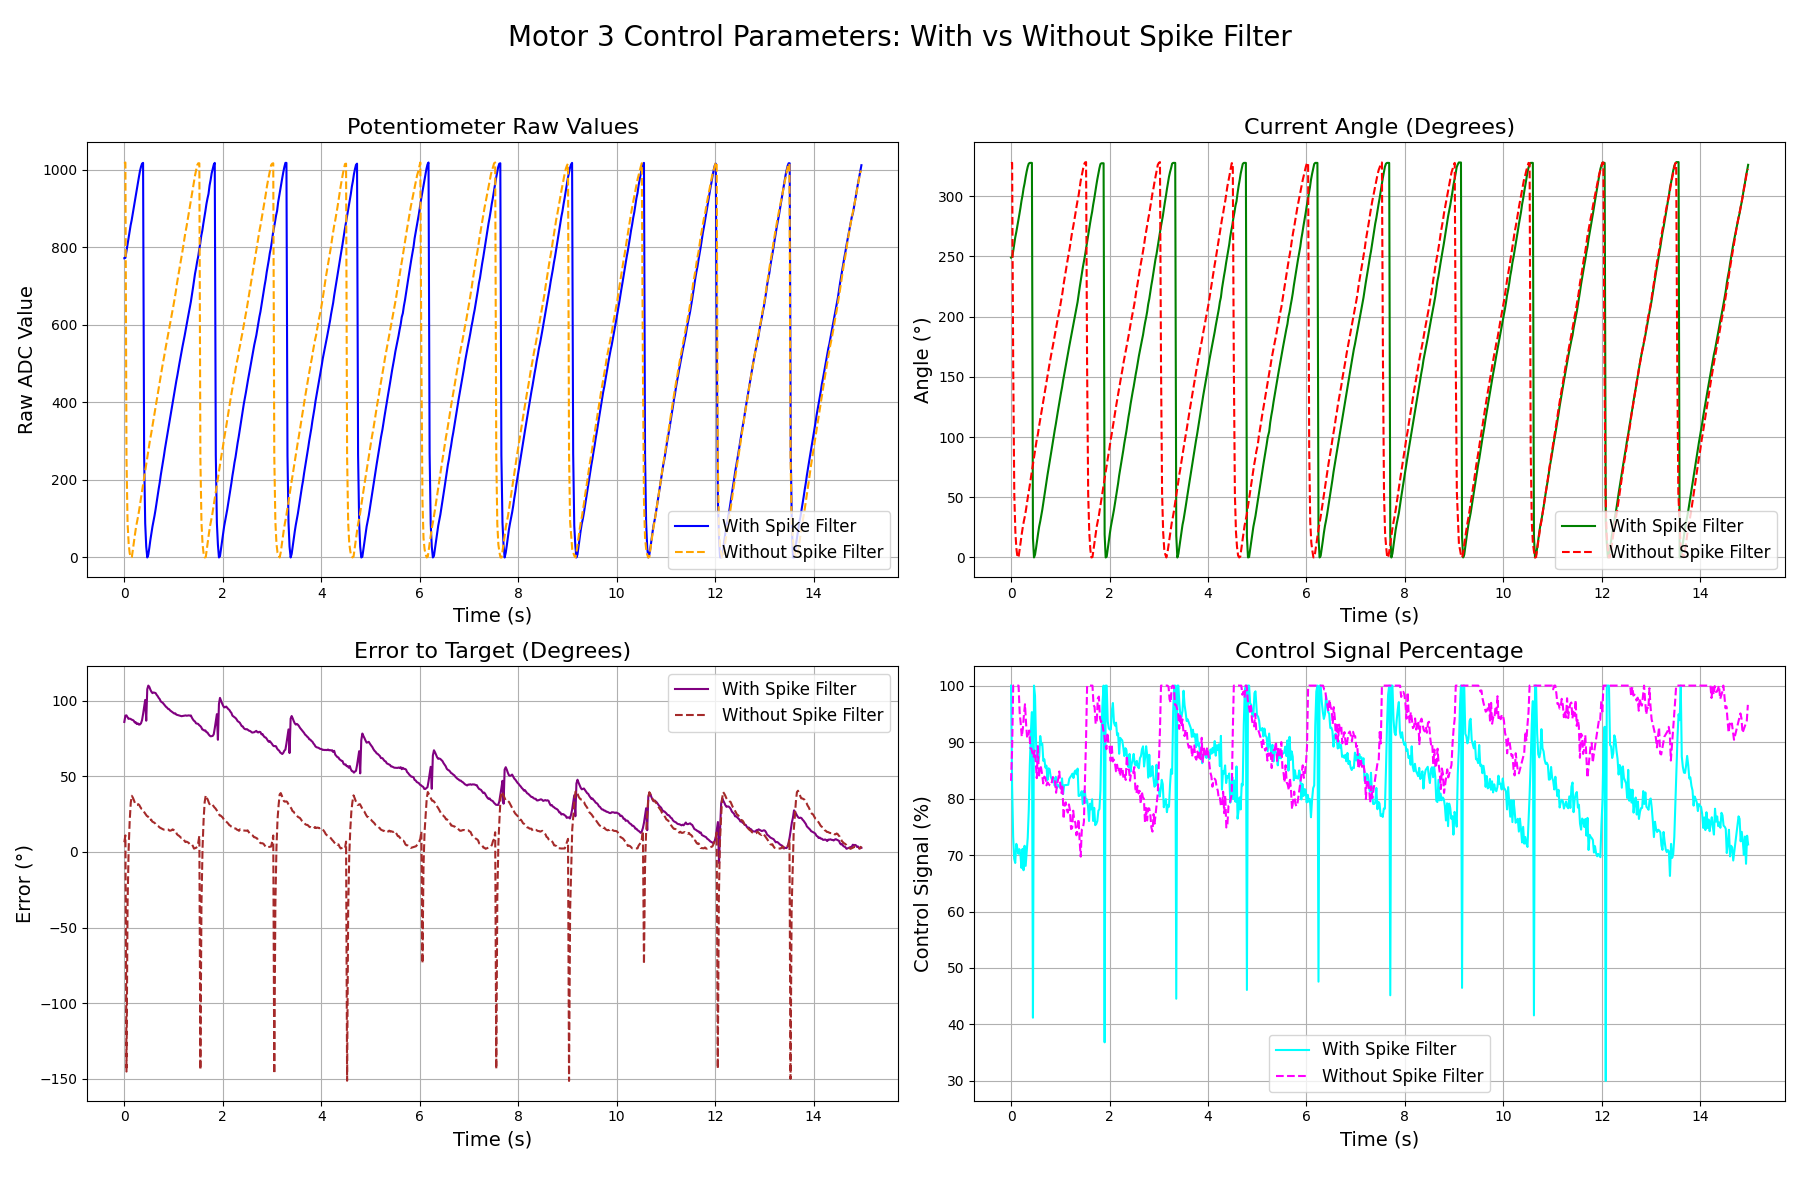
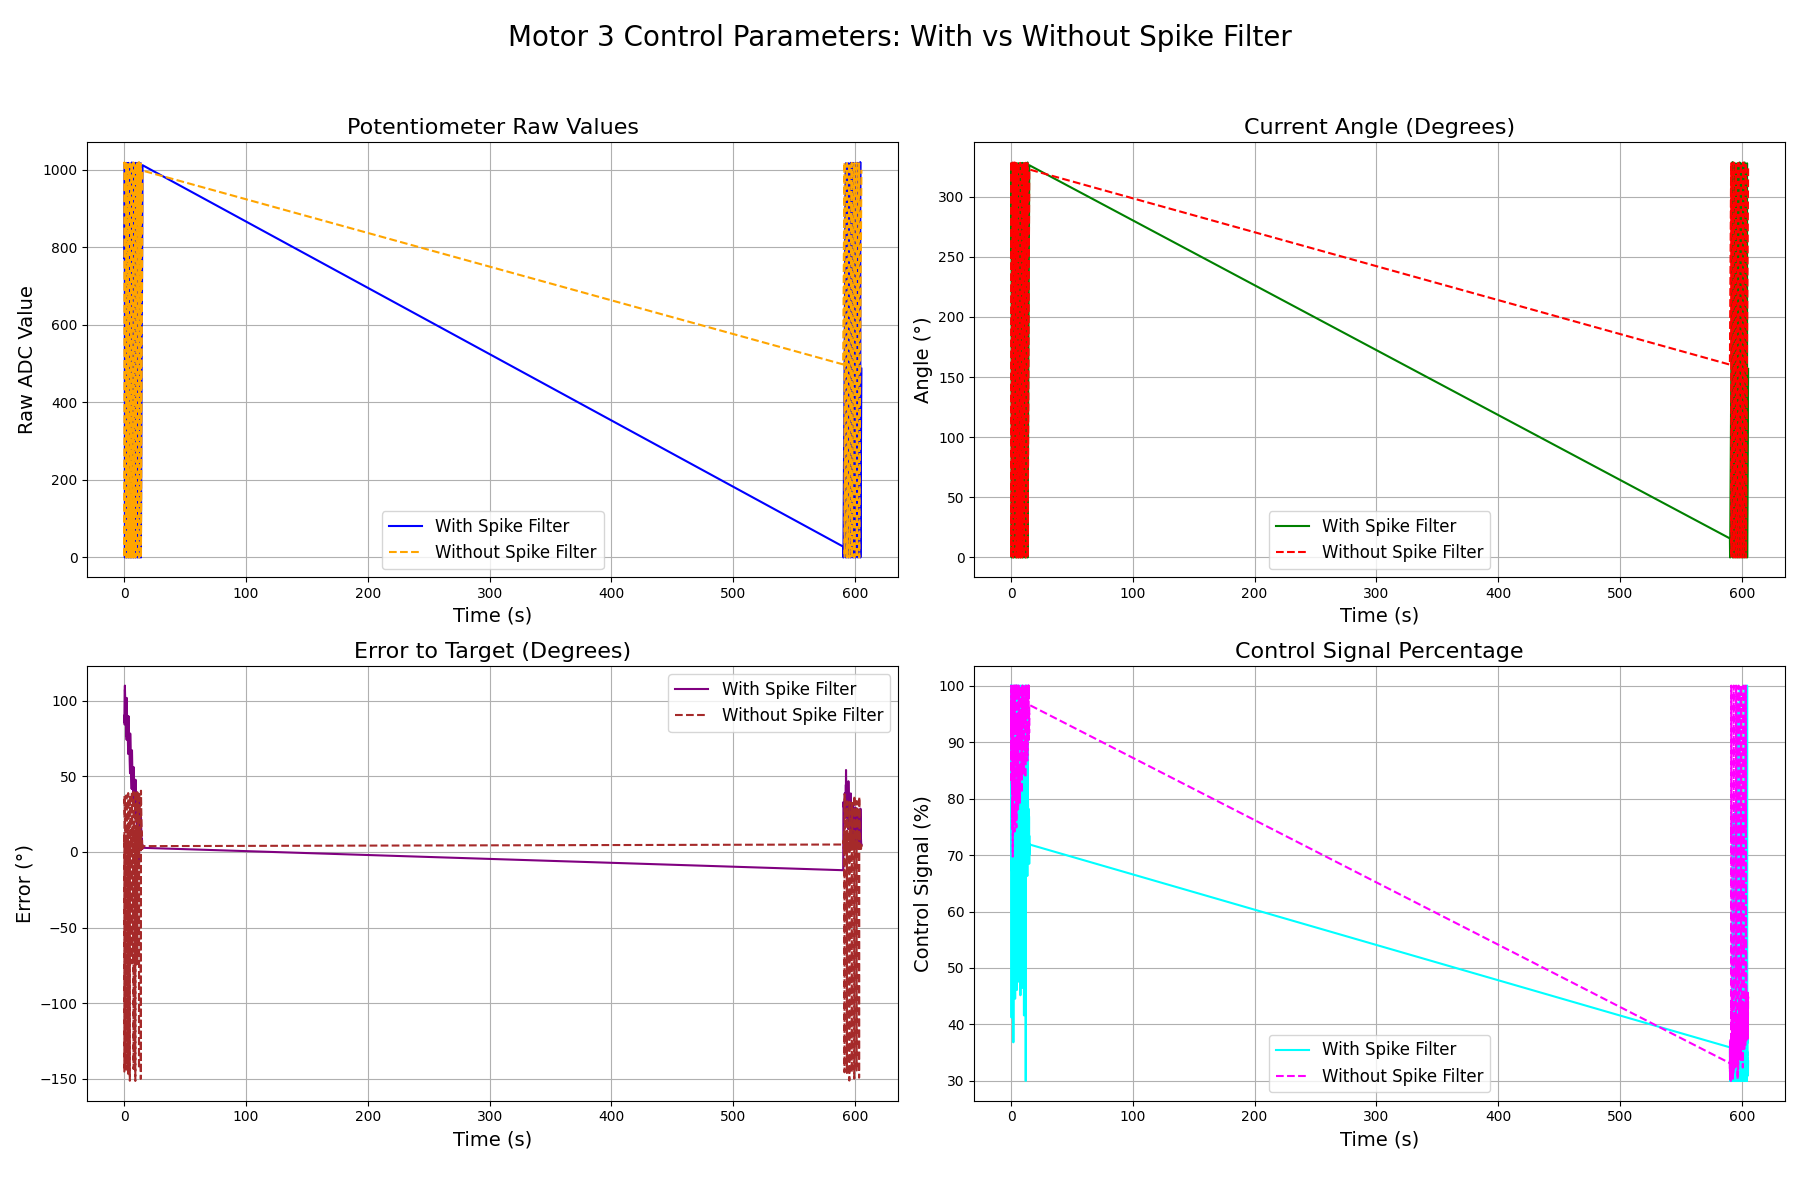
WP

diff --git a/main/data_collection/spikeFilter.py b/main/data_collection/spikeFilter.py
@@ -130,7 +130,7 @@ class MotorController:
             GPIO.output(self.in2, GPIO.HIGH)
             logging.debug(f"{self.name} Direction: Backward")
 
-    def move_to_position(self, target, mcp):
+    def move_to_position(self, target, mcp, log=True):
         try:
             current_position = self.read_position(mcp)
             error = target - current_position
@@ -145,7 +145,8 @@ class MotorController:
 
             if abs(error) <= 2:
                 self.stop_motor()
-                logging.info(f"{self.name} reached target. Stopping motor.")
+                if log:
+                    logging.info(f"{self.name} reached target. Stopping motor.")
                 return True
 
             direction = 'forward' if control_signal > 0 else 'backward'
@@ -154,8 +155,10 @@ class MotorController:
             # Map control_signal to speed percentage between 30% and 100%
             speed = min(100, max(30, abs(control_signal)))
             self.pwm.ChangeDutyCycle(speed)
-            logging.info(f"{self.name} | Raw: {mcp.read_adc(self.adc_channel)} | Angle: {current_position:.2f}° | "
-                         f"Error: {error:.2f}° | Control Signal: {speed:.2f}%")
+            if log:
+                raw_adc = mcp.read_adc(self.adc_channel)
+                logging.info(f"{self.name} | Raw: {raw_adc} | Angle: {current_position:.2f}° | "
+                             f"Error: {error:.2f}° | Control Signal: {speed:.2f}%")
             return False
         except Exception as e:
             logging.error(f"{self.name} MotorController: Error during move_to_position: {e}")
@@ -175,11 +178,14 @@ class MotorController:
         logging.info(f"{self.name} MotorController: Reset complete.")
 
 class MotorControlSystem:
-    def __init__(self, mode='normal', run_duration=30, spike_filter_duration=15):
+    def __init__(self, mode='normal', run_duration=35, spike_filter_duration=15, catch_up_duration=5):
         self.mode = mode  # 'normal' or 'gallop'
         self.current_direction = 'stable'
         self.lock = threading.Lock()
         self.running = True
+        self.initialized = False  # Flag for synchronization
+        self.catch_up_duration = catch_up_duration  # Duration for catch-up phase in seconds
+        self.logging_enabled = False  # Flag to control logging
 
         # Initialize separate loggers for with and without spike filter
         self.logger = logging.getLogger('Motor3Control')
@@ -277,8 +283,25 @@ class MotorControlSystem:
             current_time = time.time()
             elapsed_time = current_time - self.start_time
 
-            # Disable spike filter after spike_filter_duration seconds
-            if elapsed_time >= self.spike_filter_duration and not spike_filter_disabled:
+            # **Synchronization Start: Ensure error is 0 at the beginning**
+            if not self.initialized:
+                with self.lock:
+                    current_position = self.motors['M3'].read_position(self.mcp)
+                    # Calculate t0 to align sawtooth wave with current position
+                    # position = (elapsed_time / T) * MAX_ANGLE => t0 = (position / MAX_ANGLE) * T
+                    t0 = (current_position / MAX_ANGLE) * SAWTOOTH_PERIOD
+                    self.start_time = time.time() - t0
+                    self.initialized = True
+                    self.logger.info(f"Synchronization complete. Start time adjusted with t0={t0:.2f}s to align sawtooth wave with current position={current_position:.2f}°.")
+
+            # **Catch-Up Phase: First 5 seconds**
+            if not self.logging_enabled and elapsed_time >= self.catch_up_duration:
+                self.logging_enabled = True
+                self.logger.info(f"Catch-up phase complete. Logging and recording data now enabled.")
+
+            # Disable spike filter after spike_filter_duration seconds (relative to start_time)
+            # Adjust spike_filter_duration to account for catch_up_duration
+            if elapsed_time >= (self.catch_up_duration + self.spike_filter_duration) and not spike_filter_disabled:
                 with self.lock:
                     for motor in self.motors.values():
                         motor.use_spike_filter = False
@@ -312,7 +335,10 @@ class MotorControlSystem:
                 # For a single motor, target is base_position
                 target = base_position
 
-                motor.move_to_position(target, self.mcp)
+                # Determine if logging should occur based on catch-up phase
+                log = self.logging_enabled
+
+                motor.move_to_position(target, self.mcp, log=log)
             else:
                 # Stop Motor 3
                 self.motors['M3'].stop_motor()
@@ -332,13 +358,13 @@ class MotorControlSystem:
 
 def main():
     # Initialize MotorControlSystem
-    motor_control_system = MotorControlSystem(mode='normal', run_duration=30, spike_filter_duration=15)
+    motor_control_system = MotorControlSystem(mode='normal', run_duration=35, spike_filter_duration=15, catch_up_duration=5)
 
     # Set initial direction to 'forward' to start movement
     motor_control_system.set_direction('forward')
 
     try:
-        # Wait until the control loop completes (30 seconds)
+        # Wait until the control loop completes (35 seconds)
         while motor_control_system.control_thread.is_alive():
             time.sleep(1)
     except KeyboardInterrupt:
@@ -349,5 +375,4 @@ def main():
             motor_control_system.stop()
 
 if __name__ == "__main__":
-    main() 
-
+    main()
